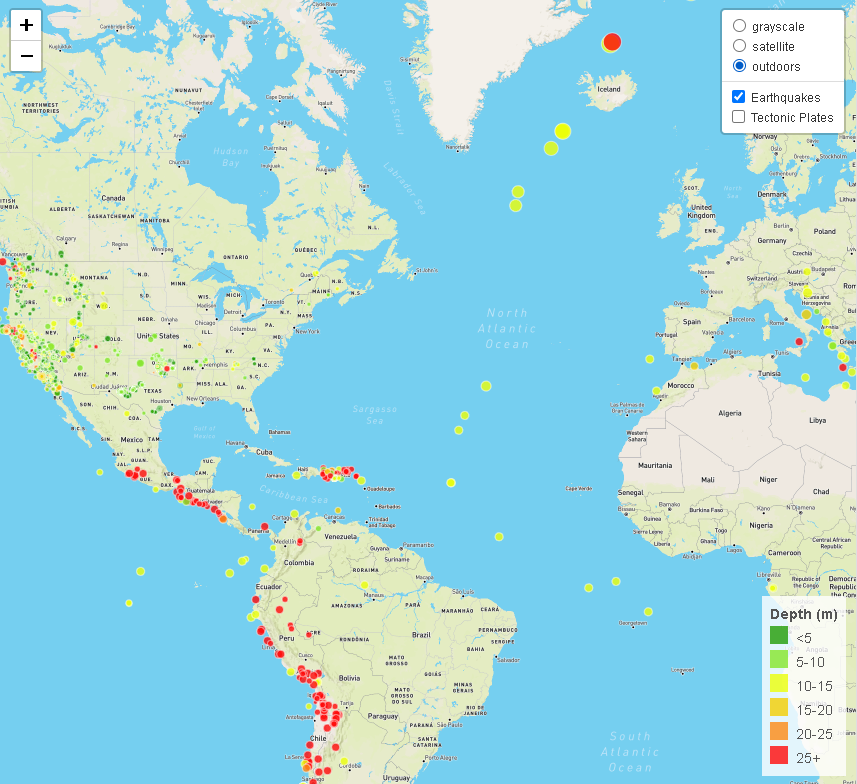
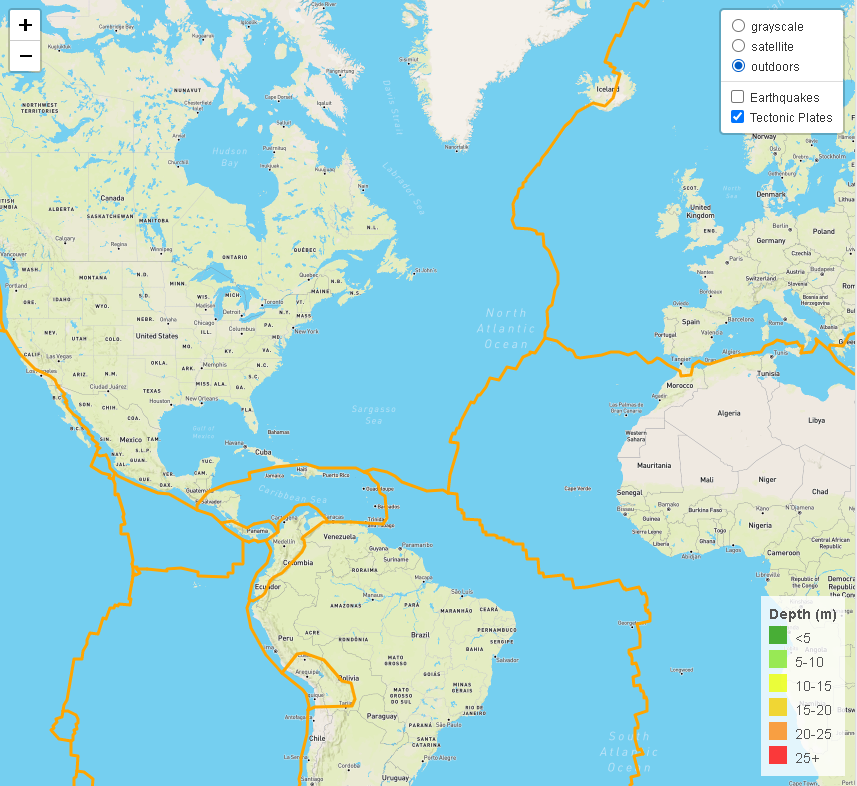
modified readme

diff --git a/README.md b/README.md
@@ -1,10 +1,14 @@
 # Leaflet Homework - Visualizing Data with Leaflet
 
-### Level 1: Basic Visualization
+Did provide a link to GitHub pages due to needing an API key for the mapping. API key is stored in a config.js file and was not pushed to GitHub.
+
+- - -
+
+## Level 1: Basic Visualization
 
 ![2-BasicMap](Images/2-BasicMap.png)
 
-## Visualize the Earthquake Data Set.
+### Visualize the Earthquake Data Set.
 
 1. **Get  data set**
 
@@ -14,17 +18,19 @@
 
 2. **Import & Visualize the Data**
 
+![3-Data](Images/2-BasicMapZooom.png)
+
    Created a map using Leaflet that plots all of the earthquakes from the data set based on the longitude and latitude.
 
-   * The data markers  reflect the magnitude of the earthquake by their size and the depth of the earthquake by color. 
+   * The data markers reflect the magnitude of the earthquake by their size and the depth of the earthquake by their color. 
 
    * Included are popups that provide additional information about the earthquake when a marker is clicked.
 
-   * Created a legend that will provide context for the map data.
+   * Created a legend that provides context for the map data.
 
 - - -
 
-### Level 2: More Data (Optional)
+## Level 2: More Data (Optional)
 
 ![Advanced](Images/step2-1.png)
 
@@ -32,12 +38,11 @@
 
 ![Advanced](Images/step2-3.png)
 
-Pulled in a second data set and visualized it along side  original set of data. Data on tectonic plates was found at <https://github.com/fraxen/tectonicplates>.
+Pulled in a second data set and visualized it along with original set of data (Step 1). Data on tectonic plates was provided at <https://github.com/fraxen/tectonicplates>.
 
+* Plotted a second data set to the map.
 
-* Plotted a second data set the map (<https://github.com/fraxen/tectonicplates>).
-
-* Configured three base maps to choose from as well as two different data sets into overlays that can be turned on and off independently.
+* Configured three base maps to choose from as well as two different data sets as overlays that can be turned on and off independently.
 
 * Added layer controls to the map.
 
